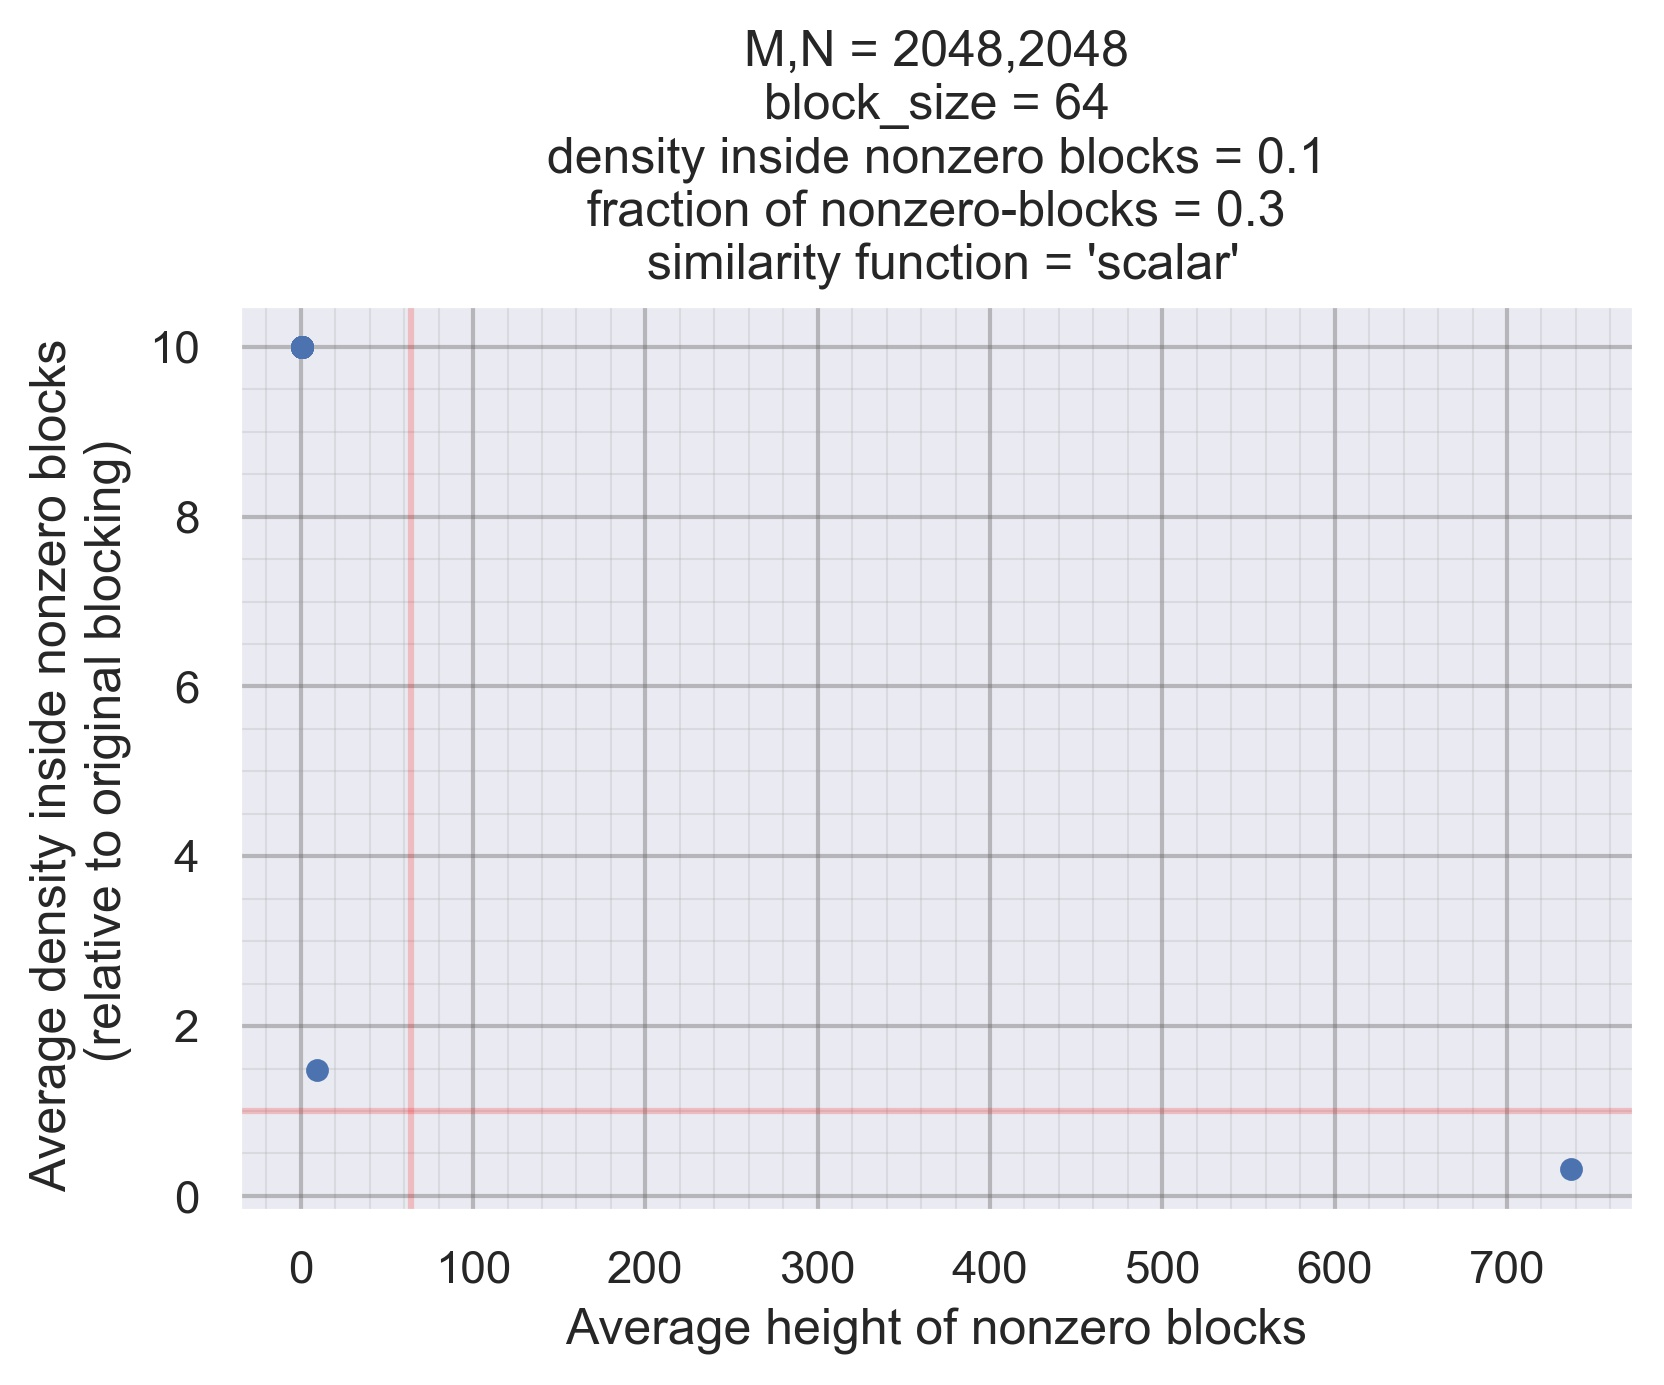
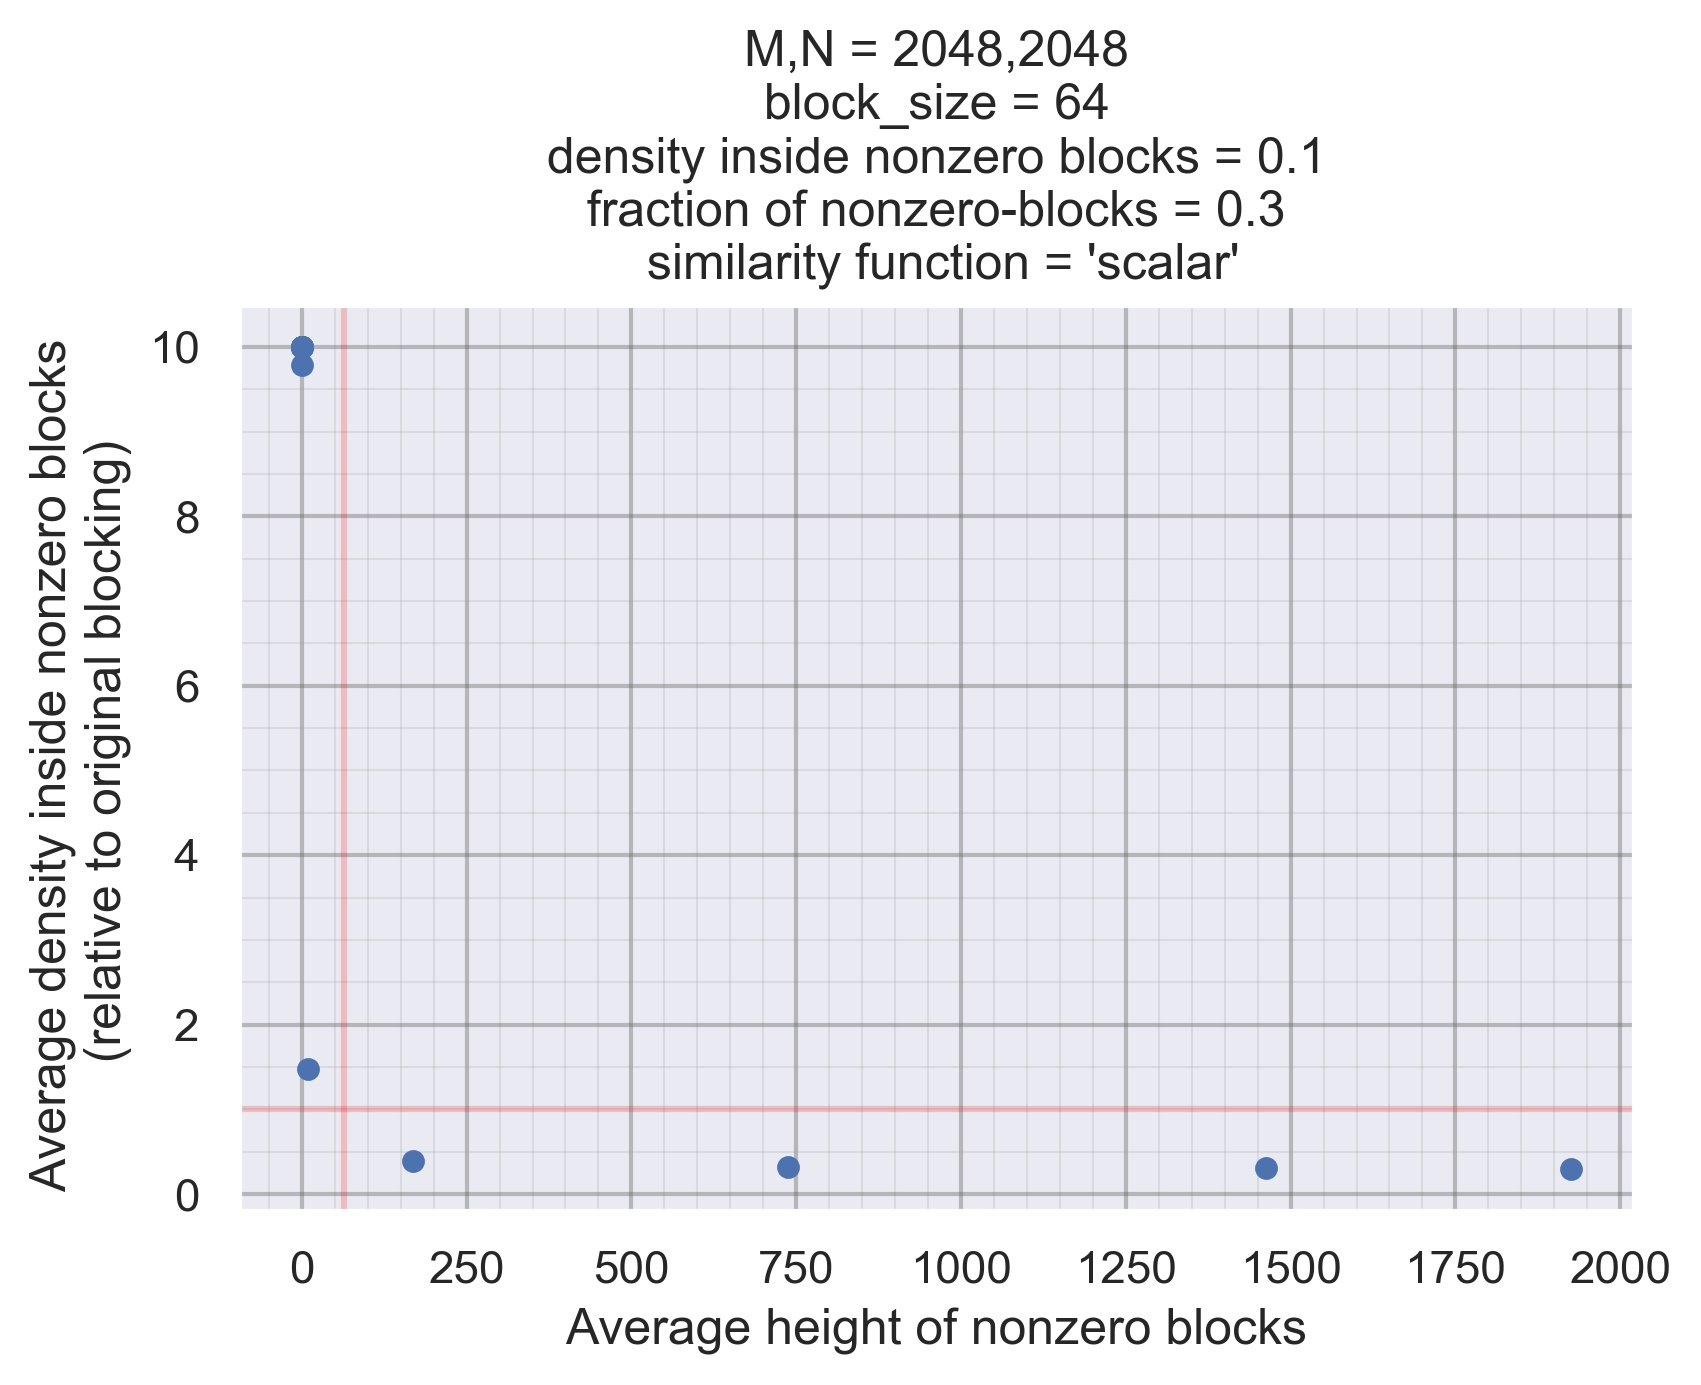
images real

diff --git a/Pyhton_scripts/SPARTA_reorder_analysis_pandas.py b/Pyhton_scripts/SPARTA_reorder_analysis_pandas.py
@@ -19,7 +19,8 @@ saad = True
 if saad:
     input_file = "../results/test_reordering_blocked_synth_saad_25_10.csv"
 else:
-    input_file = "../results/test_reordering_blocked_synth_2.csv"
+#   input_file = "../results/test_reordering_blocked_synth_2.csv"
+    input_file = "../results/real_reordering_results_25_10.csv"
 
                     
 if __name__ == "__main__":
@@ -37,7 +38,7 @@ if __name__ == "__main__":
     input_csv = args.input_csv;
     output_dir = args.output_dir;
                     
-results_df = pd.read_csv(input_csv);
+results_df = pd.read_csv(input_file);
 
 columns = ['exp_name', 
            'input_type', 
@@ -189,6 +190,49 @@ for cols in [2048,]:
                             reorder_curve(cols,rows,block_size, i_density, b_density, similarity, name = "reorder_curve", saad = saad);
                         except:
                             print("could not make image for cols = {}, rows = {}, block_size = {}".format(cols,rows,block_size))
+
+
+
+
+def real_reorder_curve(graph = None, block_size = 64, similarity = "'scalar'", save_folder = "../images/reorder_curve/", name = "real_reorder_curve", saad = False):
+    fixed = {
+        "input_source": "any",
+        "algo_block_size": str(block_size),
+        "epsilon": "any",
+        "similarity_func": similarity,
+        "scramble": "1"
+    }
+    
+    if saad: 
+        fixed["algo_block_size"] = 1;
+        name = "reorder_curve_saad";
+
+
+    graph_name = graph.split("/")[-1].split(".")[0]
+    fixed
+    q = build_query(fixed)
+    results_df.query(q).plot(x = "VBS_avg_nzblock_height", y = "output_in_block_density", kind = "scatter");
+    plt.grid(b=True, which='major', color='#666666', linestyle='-', alpha=0.4)
+    plt.minorticks_on()
+    plt.grid(b=True, which='minor', color='#999999', linestyle='-', alpha=0.2, linewidth=0.5)
+    #plt.xlim(0,1000)
+    #plt.ylim(0,2)
+    plt.title("graph: {} \n block_size = {} \n similarity function = {}".format(graph_name, block_size, similarity))
+    plt.xlabel("Average height of nonzero blocks");
+    plt.ylabel("Average density inside nonzero blocks");
+    
+    savename = save_folder + name + "{}_bs{}_{}.jpg".format(graph_name,block_size, similarity);
+
+    plt.savefig(savename, format = 'jpg', dpi=300, bbox_inches = "tight")
+    plt.show()
+    plt.close()
+    
+    
+for graph in results_df["input_source"].unique():
+    for algo_block_size in results_df["algo_block_size"].unique():
+        for sim in ["'scalar'","'jaccard'"]:
+            real_reorder_curve(graph,algo_block_size,sim);
+
 
 
 def curve_comparison(rows = 2048, cols = 2048, block_size = 64, i_density = 0.1, b_density = 0.1, save_folder = "../images/reorder_curve/", name = "reorder_curve_comparison"):
